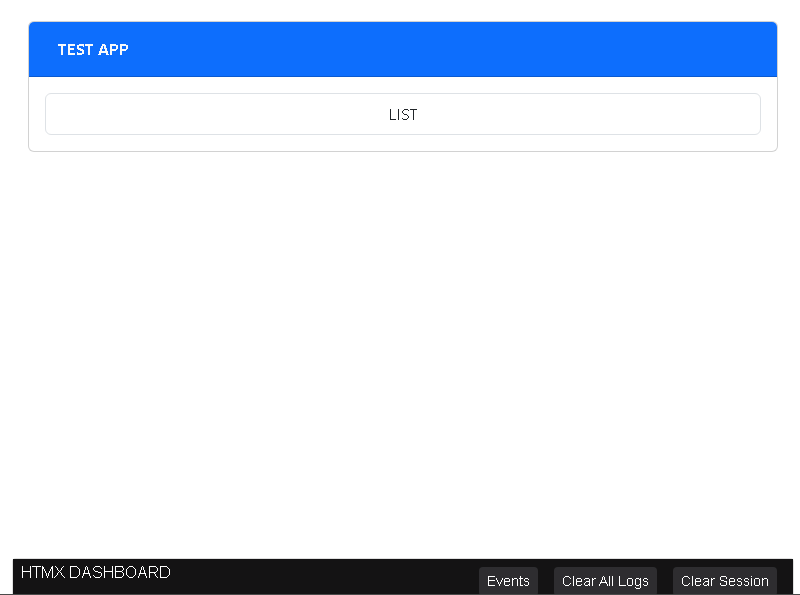
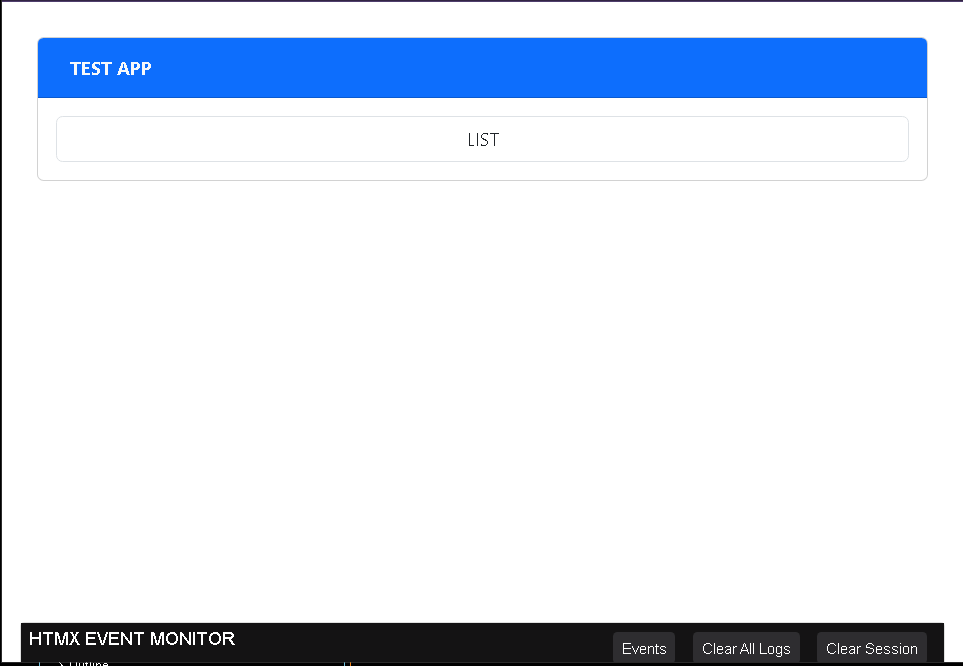
Rebuilt readme.md

Changed region(s): [[0.0, 0.0, 1.0, 0.2118], [0.0, 0.9076, 1.0, 1.0], [0.0312, 0.1815, 0.9688, 0.2723]]

diff --git a/htmxeventmonitor.js b/htmxeventmonitor.js
@@ -6,6 +6,7 @@ const HTMX_INIT = 'htmxDebugger.init';
 const HTMX_EVENT_STORAGE_KEY = 'htmxDebugger.htmxEvents';
 const HTMX_LOG_MAX = 'htmxDebugger.maxCount';
 
+// These can be overridden by passing an an object with needed values.
 var defaultSettings = 
 {
     maxCount: 200,
@@ -26,13 +27,14 @@ var defaultSettings =
 
 // Holds events that will be tracked.
 var htmxEvents = [];
+//  What is the maximum number of log entries to track.
 var maxLogs;
 
 // Holds pameters that are passed in.  Needed for session reset.
 var stashedParameters;
 
 
-// Helper function.  Should probably use on other objects at some point.
+// Helper function to apply styles.
 function applyStyles(el, styles)
 {
     Object.assign(el.style, styles);
@@ -56,10 +58,12 @@ const headerButtonStyles =
 // Generate the modal.
 let settingsModal = null;
 
-function createSettingsModal() {
+function createSettingsModal() 
+{
 
     // Modal already exists — no need to recreate.
-    if (settingsModal) {
+    if (settingsModal) 
+    {
         return settingsModal;
     }
 
@@ -76,7 +80,7 @@ function createSettingsModal() {
     overlay.style.alignItems = 'center';
     overlay.style.zIndex = '999999';
 
-    // Build the modal.
+    // Build the modal.  This is where events are turned on or off.
     const modal = document.createElement('div');
     modal.style.backgroundColor = '#fff';
     modal.style.borderRadius = '0.375rem';
@@ -85,6 +89,7 @@ function createSettingsModal() {
     modal.style.boxShadow = '0 4px 12px rgba(0,0,0,0.15)';
     modal.style.fontFamily = 'sans-serif';
 
+    // Build the header.
     const h6 = document.createElement('h6');
     h6.textContent = 'Toggle Monitored Events';
     Object.assign
@@ -98,7 +103,7 @@ function createSettingsModal() {
         }
     );
 
-    // Modal Header
+    // Build the modal header.
     const mHeader = document.createElement('div');
     mHeader.style.padding = '1rem';
     mHeader.style.backgroundColor = '#141314';
@@ -109,11 +114,13 @@ function createSettingsModal() {
     mHeader.textContent = '';
     mHeader.appendChild(h6);
 
-    const closeModal = () => {
+    const closeModal = () => 
+    {
         overlay.remove();
         settingsModal = null;
     };
 
+    // Build the close button.
     const closeX = document.createElement('span');
     closeX.textContent = '🗙';
     closeX.style.color = 'white';
@@ -144,7 +151,7 @@ function createSettingsModal() {
             checkbox.type = 'checkbox';
             checkbox.checked = eventObject.eventEnabled;
 
-            // Save checkbox state.
+            // Create the function to save checkbox state.
             checkbox.addEventListener
             (
                 'change',
@@ -218,11 +225,12 @@ function createLogElement(contentContainerInput, rerunHandler = null)
     const timeSpan = document.createElement('span');
     timeSpan.textContent = `⏱ ${timestamp}`; 
 
+    // Build the rerun icon.
     const rerunSpan = document.createElement('span');
     rerunSpan.textContent = '↻';
 
-    // Style the rerun icon to look interactive
-    if (typeof rerunHandler === 'function') {
+    if (typeof rerunHandler === 'function') 
+    {
         rerunSpan.style.cursor = 'pointer';
         rerunSpan.style.fontWeight = 'bold';
         rerunSpan.style.color = '#0d6efd';
@@ -232,7 +240,9 @@ function createLogElement(contentContainerInput, rerunHandler = null)
             e.stopPropagation(); // Prevents collapsing/expanding parent elements if attached
             rerunHandler();
         });
-    } else {
+    } 
+    else 
+    {
         // Dim the icon if rerun metadata isn't available for this event
         rerunSpan.style.color = '#adb5bd';
         rerunSpan.style.cursor = 'not-allowed';
@@ -310,7 +320,7 @@ function prependToEventMonitor(logElement)
     }
 }
 
-
+// Slide up container.
 function createEventMonitorContainer()
 {
     const htmxEventMonitorContainer = document.createElement('div');
@@ -470,7 +480,8 @@ function createDetailRow(label, value, targetNode = null)
     valueSpan.textContent = value || 'None'; 
 
     // If an HTMX DOM element was passed in, attach the mouseover handler
-    if (targetNode) {
+    if (targetNode) 
+    {
         attachElementHighlight(valueSpan, targetNode);
     }
 
@@ -497,7 +508,8 @@ document.body.addEventListener
         const requestConfig = detail.requestConfig || {};
         const startTime = performance.now();
 
-        const requestData = {
+        const requestData = 
+        {
             startTime: startTime,
             verb: requestConfig.verb || 'GET',
             path: requestConfig.path || detail.path,
@@ -506,10 +518,13 @@ document.body.addEventListener
             headers: requestConfig.headers || {}
         };
 
-        if (xhr) {
-            // Store keyed to the XHR instance
+        if (xhr) 
+        {
+            // Store the xhr data in the weak map.
             htmxRequestStore.set(xhr, requestData);
-        } else {
+        } 
+        else 
+        {
             // Fallback: store directly on detail if XHR isn't initialized yet
             detail._requestData = requestData;
         }
@@ -530,33 +545,37 @@ function handleHtmxEvent(evt)
 
     // Calculate duration
     let durationText = 'N/A';
-    if (requestData?.startTime) {
+    if (requestData?.startTime) 
+    {
         const elapsed = performance.now() - requestData.startTime;
         durationText = `${elapsed.toFixed(1)} ms`;
     }
 
     // Build rerun callback
     let rerunHandler = null;
-    if (requestData && requestData.path) {
-        rerunHandler = () => {
-            if (typeof htmx !== 'undefined') {
-                htmx.ajax(requestData.verb, requestData.path, {
-                    target: requestData.target,
-                    values: requestData.values,
-                    headers: requestData.headers
-                });
+    if (requestData && requestData.path) 
+    {
+        rerunHandler = () => 
+        {
+            if (typeof htmx !== 'undefined') 
+            {
+                htmx.ajax
+                (
+                    requestData.verb, requestData.path, 
+                    {
+                        target: requestData.target,
+                        values: requestData.values,
+                        headers: requestData.headers
+                    }
+                );
             }
         };
     }
-
-    
 
     // Stash the details so they are easy to access.
     const detail = evt.detail || {};
     const targetElement = detail.target;
     const triggerElement = detail.requestConfig?.elt || detail.elt;
-
-
 
     // Add infomation.
     // It would be nice to be able to pass this info in via the parameters.
@@ -564,30 +583,18 @@ function handleHtmxEvent(evt)
     container.appendChild(createDetailRow('Event Type', evt.type));
     container.appendChild(createDetailRow('Duration', durationText));
     container.appendChild(createDetailRow('Response Status', evt.detail.xhr?.status ?? 'Unknown'));
-    //container.appendChild(createDetailRow('Target ID', evt.detail.target?.id));
 
     // Attach highlight to Target ID row
     container.appendChild(createDetailRow('Target ID', targetElement?.id || 'None', targetElement));
 
-    
-    
     // Build trigger text label
     let triggerLabel = 'None';
-    if (triggerElement && triggerElement.tagName) {
+    if (triggerElement && triggerElement.tagName) 
+    {
         const tag = triggerElement.tagName.toLowerCase();
         const id = triggerElement.id ? `#${triggerElement.id}` : '';
         triggerLabel = `${tag}${id}`;
     }
-    
-    //const elt = evt.detail.requestConfig?.elt || evt.detail.elt;
-    // let triggerLabel = 'None';
-    // if (elt) 
-    // {
-    //     const tag = elt.tagName ? elt.tagName.toLowerCase() : '';
-    //     const id = elt.id ? `#${elt.id}` : '';
-
-    //     triggerLabel = `${tag}${id}` || 'Unknown Element';
-    // }
 
     container.appendChild(createDetailRow('Trigger', triggerLabel, triggerElement));
     
@@ -725,7 +732,7 @@ function initHTMXEventMonitor(parameters)
     // Set flag so it won't run again.
     initFinished = true;
 
-    // If parameters are passed in, stash them in case reset session button is activated.
+    // If parameters are passed in, stash them in case reset session button is used.
     if (typeof parameters === 'object' && parameters !== null)
     {
         stashedParameters = parameters

diff --git a/index.html b/index.html
@@ -44,8 +44,8 @@
         events : 
         [
             { eventName: 'htmx:beforeRequest', eventEnabled: true},
-            { eventName: 'htmx:beforeSend', eventEnabled: false},
-            { eventName: 'htmx:afterOnLoad', eventEnabled: false},
+            { eventName: 'htmx:beforeSend', eventEnabled: true},
+            { eventName: 'htmx:afterOnLoad', eventEnabled: true},
             { eventName: 'htmx:afterRequest', eventEnabled: true},
             { eventName: 'htmx:responseError', eventEnabled: false},
             { eventName: 'htmx:sendError', eventEnabled: false},

diff --git a/README.md b/README.md
@@ -1,25 +1,82 @@
+# HTMX Event Monitor
 
+A lightweight, zero-dependency, vanilla JavaScript debugging widget designed specifically for HTMX applications. 
 
-<img src="Animation.gif" width="500px">
+HTMX Event Monitor provides a non-intrusive bottom dock that logs lifecycle events in real time, tracks request durations, allows you to re-issue requests on the fly, and helps you visually inspect elements directly from the console.
 
-HTMX-Dashboard is a lightweight, vanilla JavaScript debugging widget for HTMX applications. 
+<p align="center">
+  <img src="Animation.gif" width="600px">
+</p>
 
-It has zero dependencies, making it easy to drop into any project.
+---
 
-It has a non-intrusive UI, using a collapsible bottom dock and dedicated modal for toggling monitored events.
+## ✨ Features
 
-It uses state persistence with session storage to maintain enabled events across page reloads.
+* **Zero Dependencies:** Pure vanilla JavaScript—easy to drop into any project without framework bloat.
+* **Precise Duration Tracking:** Automatically measures how long individual HTMX requests take using high-resolution performance timers (handling concurrent requests seamlessly).
+* **Request Re-running (`↻`):** Instantly re-issue any logged HTMX request using saved context parameters (`htmx.ajax()`).
+* **Live DOM Highlighting:** Hovering over target IDs or triggers in the log inspects and highlights the corresponding elements on your live page.
+* **Non-Intrusive UI:** Clean, collapsible bottom dock interface with a dedicated settings modal.
+* **State Persistence:** Remembers your enabled/disabled event filters across page reloads using `sessionStorage`.
+* **Customizable Defaults:** Easily override tracked events and log limits on initialization.
 
-The events that are tracked can be changed by passing in a parameter that overrides the initial set.
+---
 
-Collapsed panel.<br>
-<img src="01.PNG">
+## 📸 Screenshots
 
-Open panel.<br>
-<img src="02.PNG">
+| Collapsed Panel | Open Panel & Log Details |
+| :---: | :---: |
+| <img src="01.PNG" width="400px"> | <img src="02.PNG" width="400px"> |
+| *Stays out of your way at the bottom of the screen.* | *Detailed inspection with request timing, verbs, paths, and action buttons.* |
 
-Event picker.<br>
-<img src="03.PNG">
+| Event Picker Modal | Highlight Target Example |
+| :---: | :---: |
+| <img src="03.PNG" width="400px"> | <img src="04.PNG" width="400px"> |
+| *Toggle exact HTMX lifecycle events on or off.* | *Configure max logs and default event states on startup.* |
 
-Initialization.<br>
-<img src="04.PNG">
+---
+
+## 🚀 Getting Started
+
+### 1. Include the Script
+Add `htmxeventmonitor.js` to your project:
+```html
+<script src="path/to/htmxeventmonitor.js"></script>
+```
+### 2. Initialize the Monitor
+Initialize the monitor when the DOM loads, optionally passing custom configuration settings:
+
+```HTML
+<script>
+    var parameters = {
+        maxCount: 150, // Max log history to retain
+        events: [
+            { eventName: 'htmx:beforeRequest', eventEnabled: true },
+            { eventName: 'htmx:beforeSend', eventEnabled: true },
+            { eventName: 'htmx:afterOnLoad', eventEnabled: true },
+            { eventName: 'htmx:afterRequest', eventEnabled: true },
+            { eventName: 'htmx:responseError', eventEnabled: false },
+            { eventName: 'htmx:sendError', eventEnabled: false },
+            { eventName: 'htmx:timeout', eventEnabled: false },
+            { eventName: 'htmx:beforeSwap', eventEnabled: false },
+            { eventName: 'htmx:afterSwap', eventEnabled: false },
+            { eventName: 'htmx:afterSettle', eventEnabled: false }
+        ]
+    };
+
+    document.addEventListener("DOMContentLoaded", function () {
+        initHTMXEventMonitor(parameters);
+    });
+</script>
+```
+🛠 Usage Tips
+Click the Header: Click anywhere on the HTMX EVENT MONITOR bottom bar to expand or collapse the log window.
+
+Rerun Requests: Click the reload icon (↻) in any log header to instantly re-execute that exact HTMX request.
+
+Inspect Elements: Hover your mouse over the Target ID or Trigger fields inside a log card to flash-highlight the active element on your web page.
+
+Configure Events: Click the Events button in the top right of the widget panel to open the filter modal and select which lifecycle events you want to record.
+
+📜 License
+Distributed under the MIT License. See LICENSE for more information.
